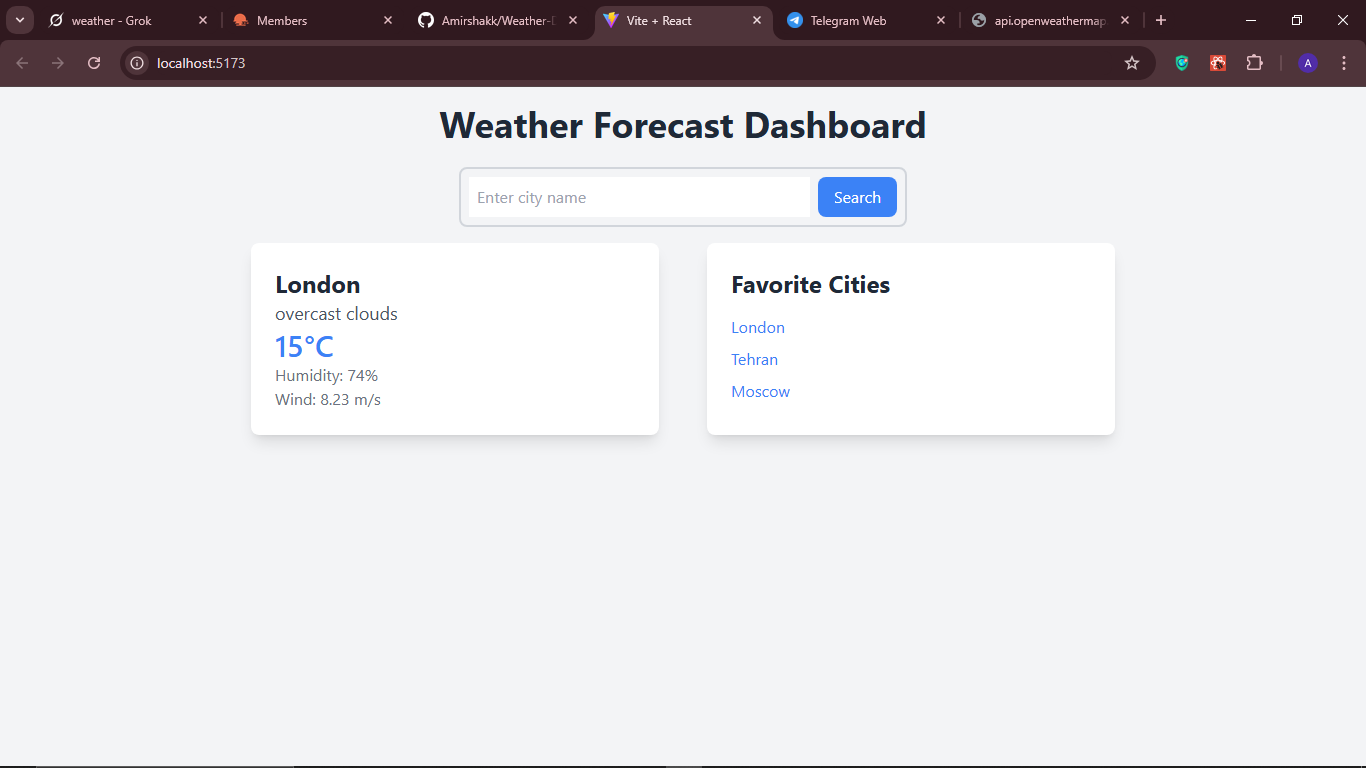
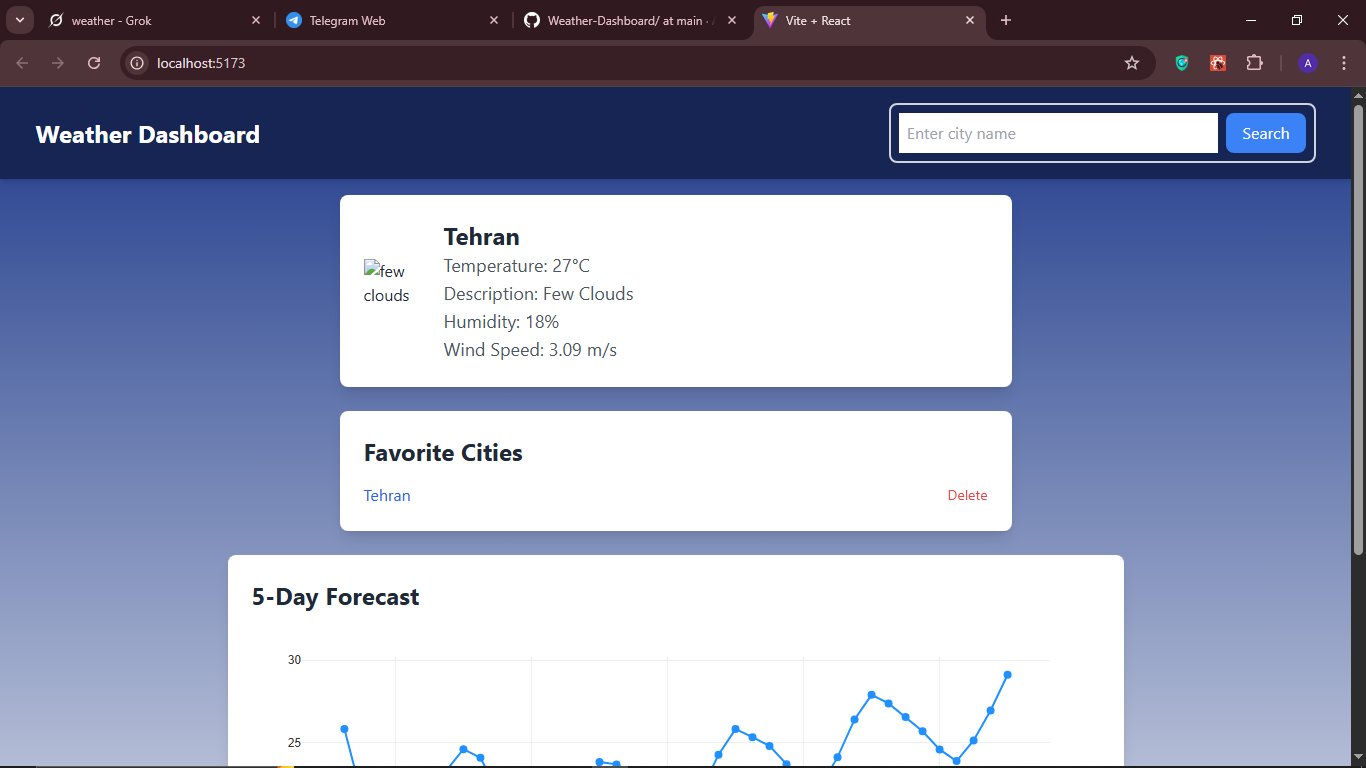
Add screenshot w/ accuweather inspired ui

diff --git a/README.md b/README.md
@@ -1,13 +1,14 @@
 ## Weather Forecast Dashboard
 
-A responsive web app built with React, Vite, TailwindCSS, and Plotly, fetching real-time weather data from OpenWeatherMap API. Features include a search bar, weather card, favorite cities list, and a 5-day temperature forecast chart.
+A full-stack web app built with React, Vite, TailwindCSS, and Plotly, fetching real-time weather data from OpenWeatherMap API. Features include a search bar, current weather card with icons, favorite cities list with delete functionality, and a 5-day temperature forecast chart. Designed with an AccuWeather-inspired UI for a professional, responsive user experience.
 
 ## Project Status
 - **Phase 1: Project Setup** - Completed: React project initialized with Vite, connected to GitHub.
-- **Phase 2: UI Design** - Completed: Added TailwindCSS and React components (SearchBar, WeatherCard, FavoriteCities). Fixed PostCSS config.
+- **Phase 2: UI Design** - Completed: Added TailwindCSS and React components. Fixed PostCSS config.
 - **Phase 3: API Integration** - Completed: Integrated OpenWeatherMap API with secure key storage.
-- **Phase 4: Visualizations** - Completed: Added Plotly line chart for 5-day temperature forecast.
-- Next: Persist favorite cities with SQLite and deploy to Vercel.
+- **Phase 4: Visualizations** - Completed: Added Plotly chart, restored WeatherCard, fixed error handling.
+- **Phase 5: Enhanced UI/UX** - Completed: Redesigned frontend with AccuWeather-inspired layout, weather icons, and favorite city deletion.
+- Next: Deploy to Vercel; revisit Flask/SQLite backend for persistence.
 
 ## Screenshot
 ![Weather Dashboard UI](https://github.com/Amirshakk/Weather-Dashboard/raw/main/screenshot.png)
